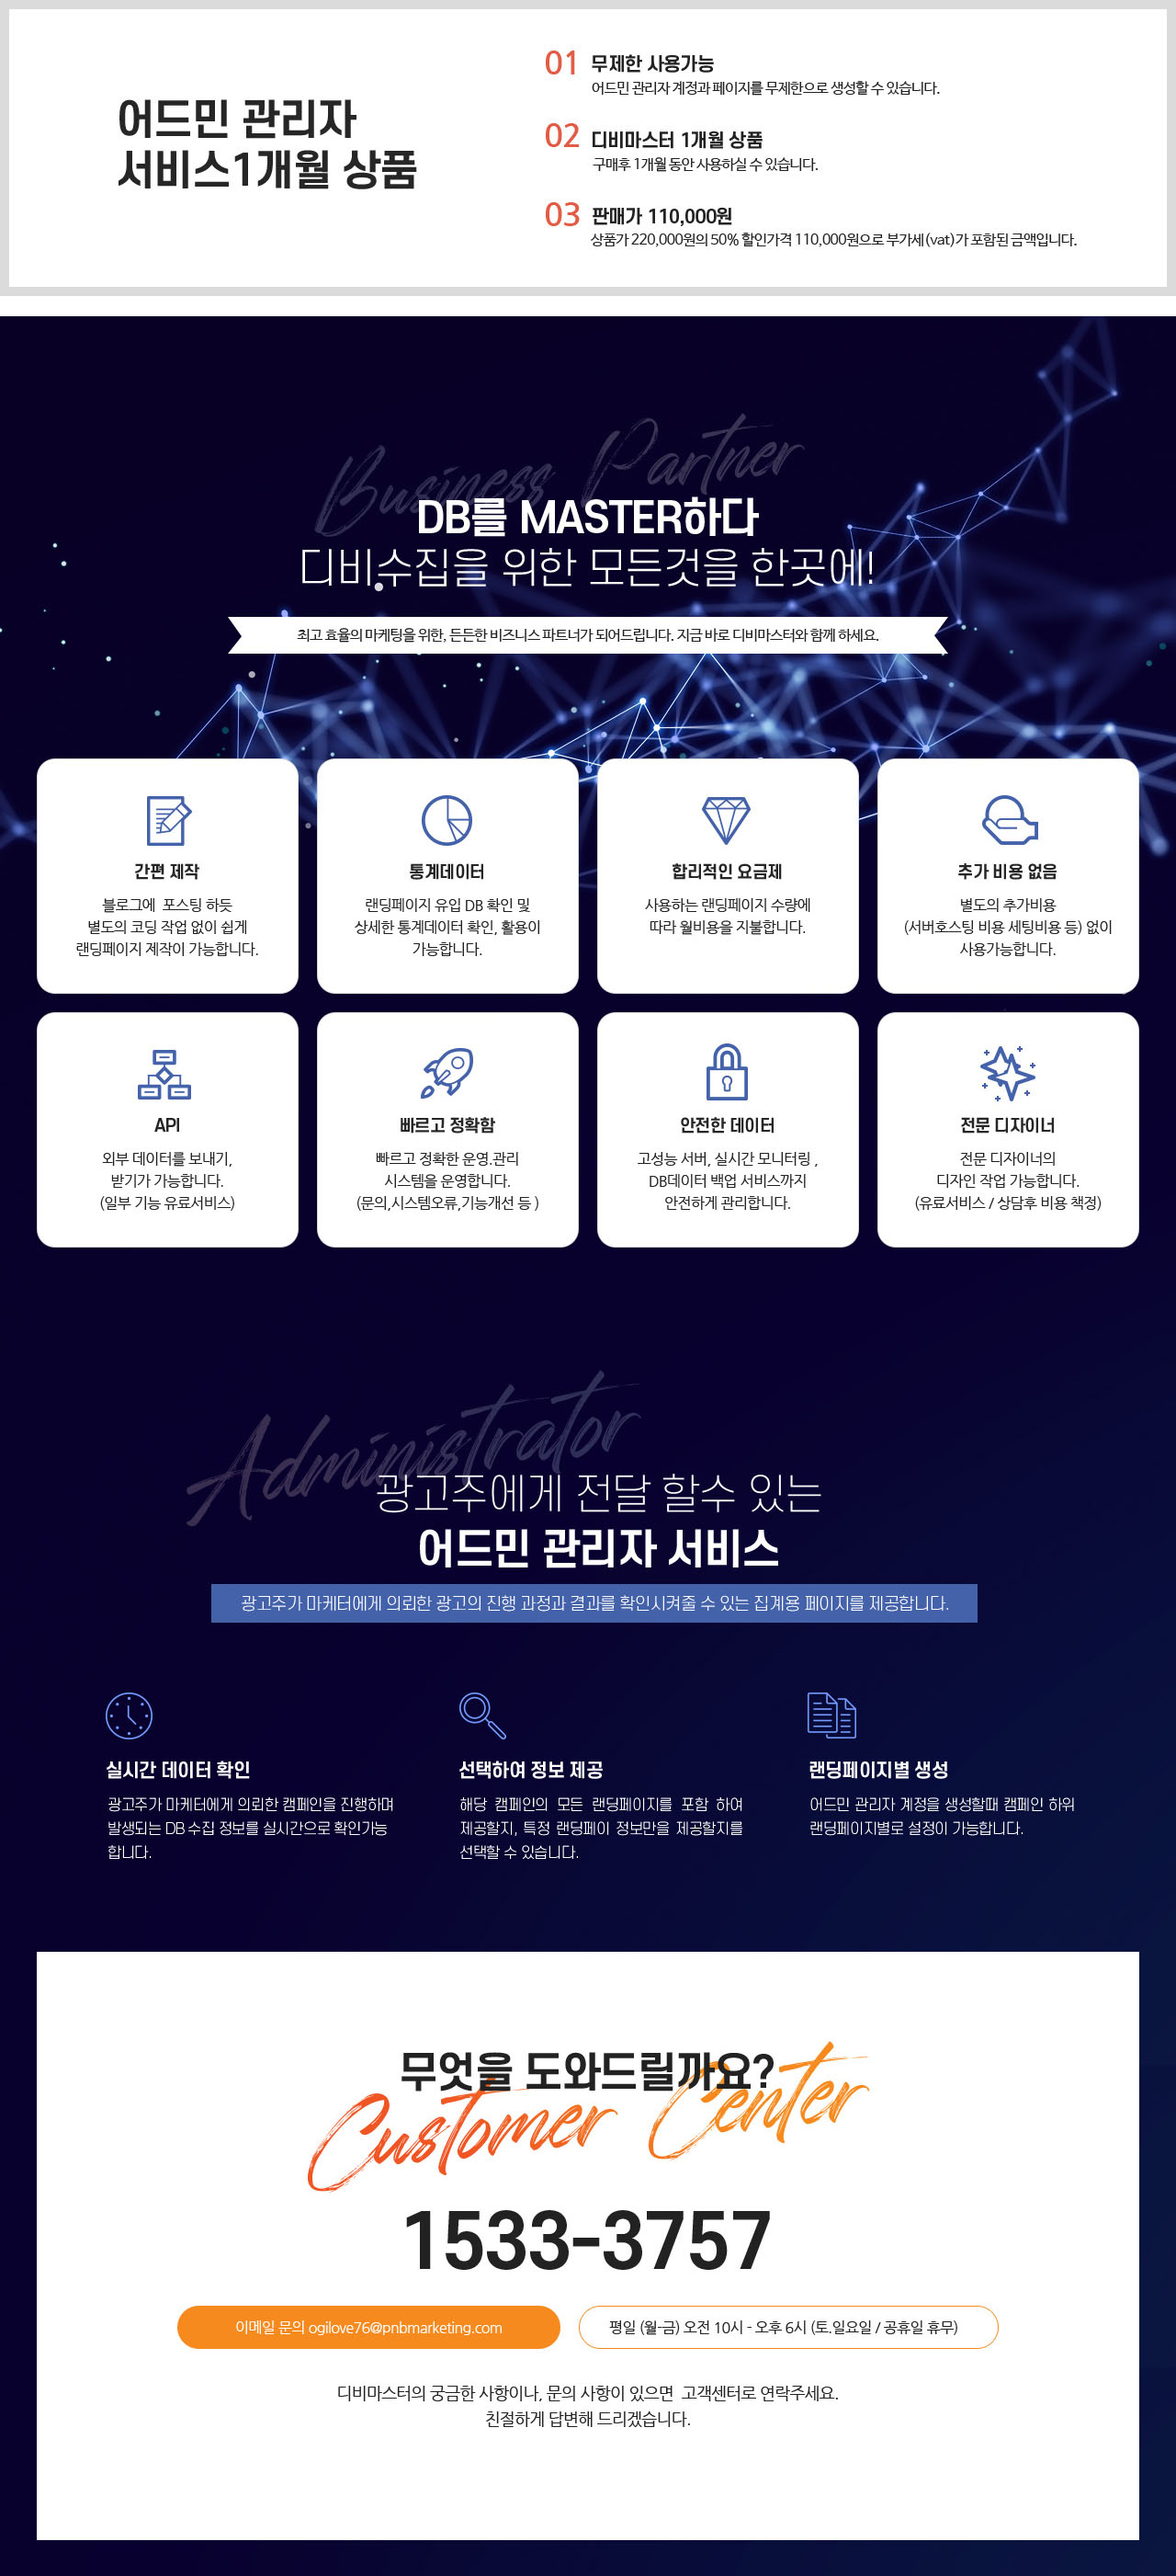
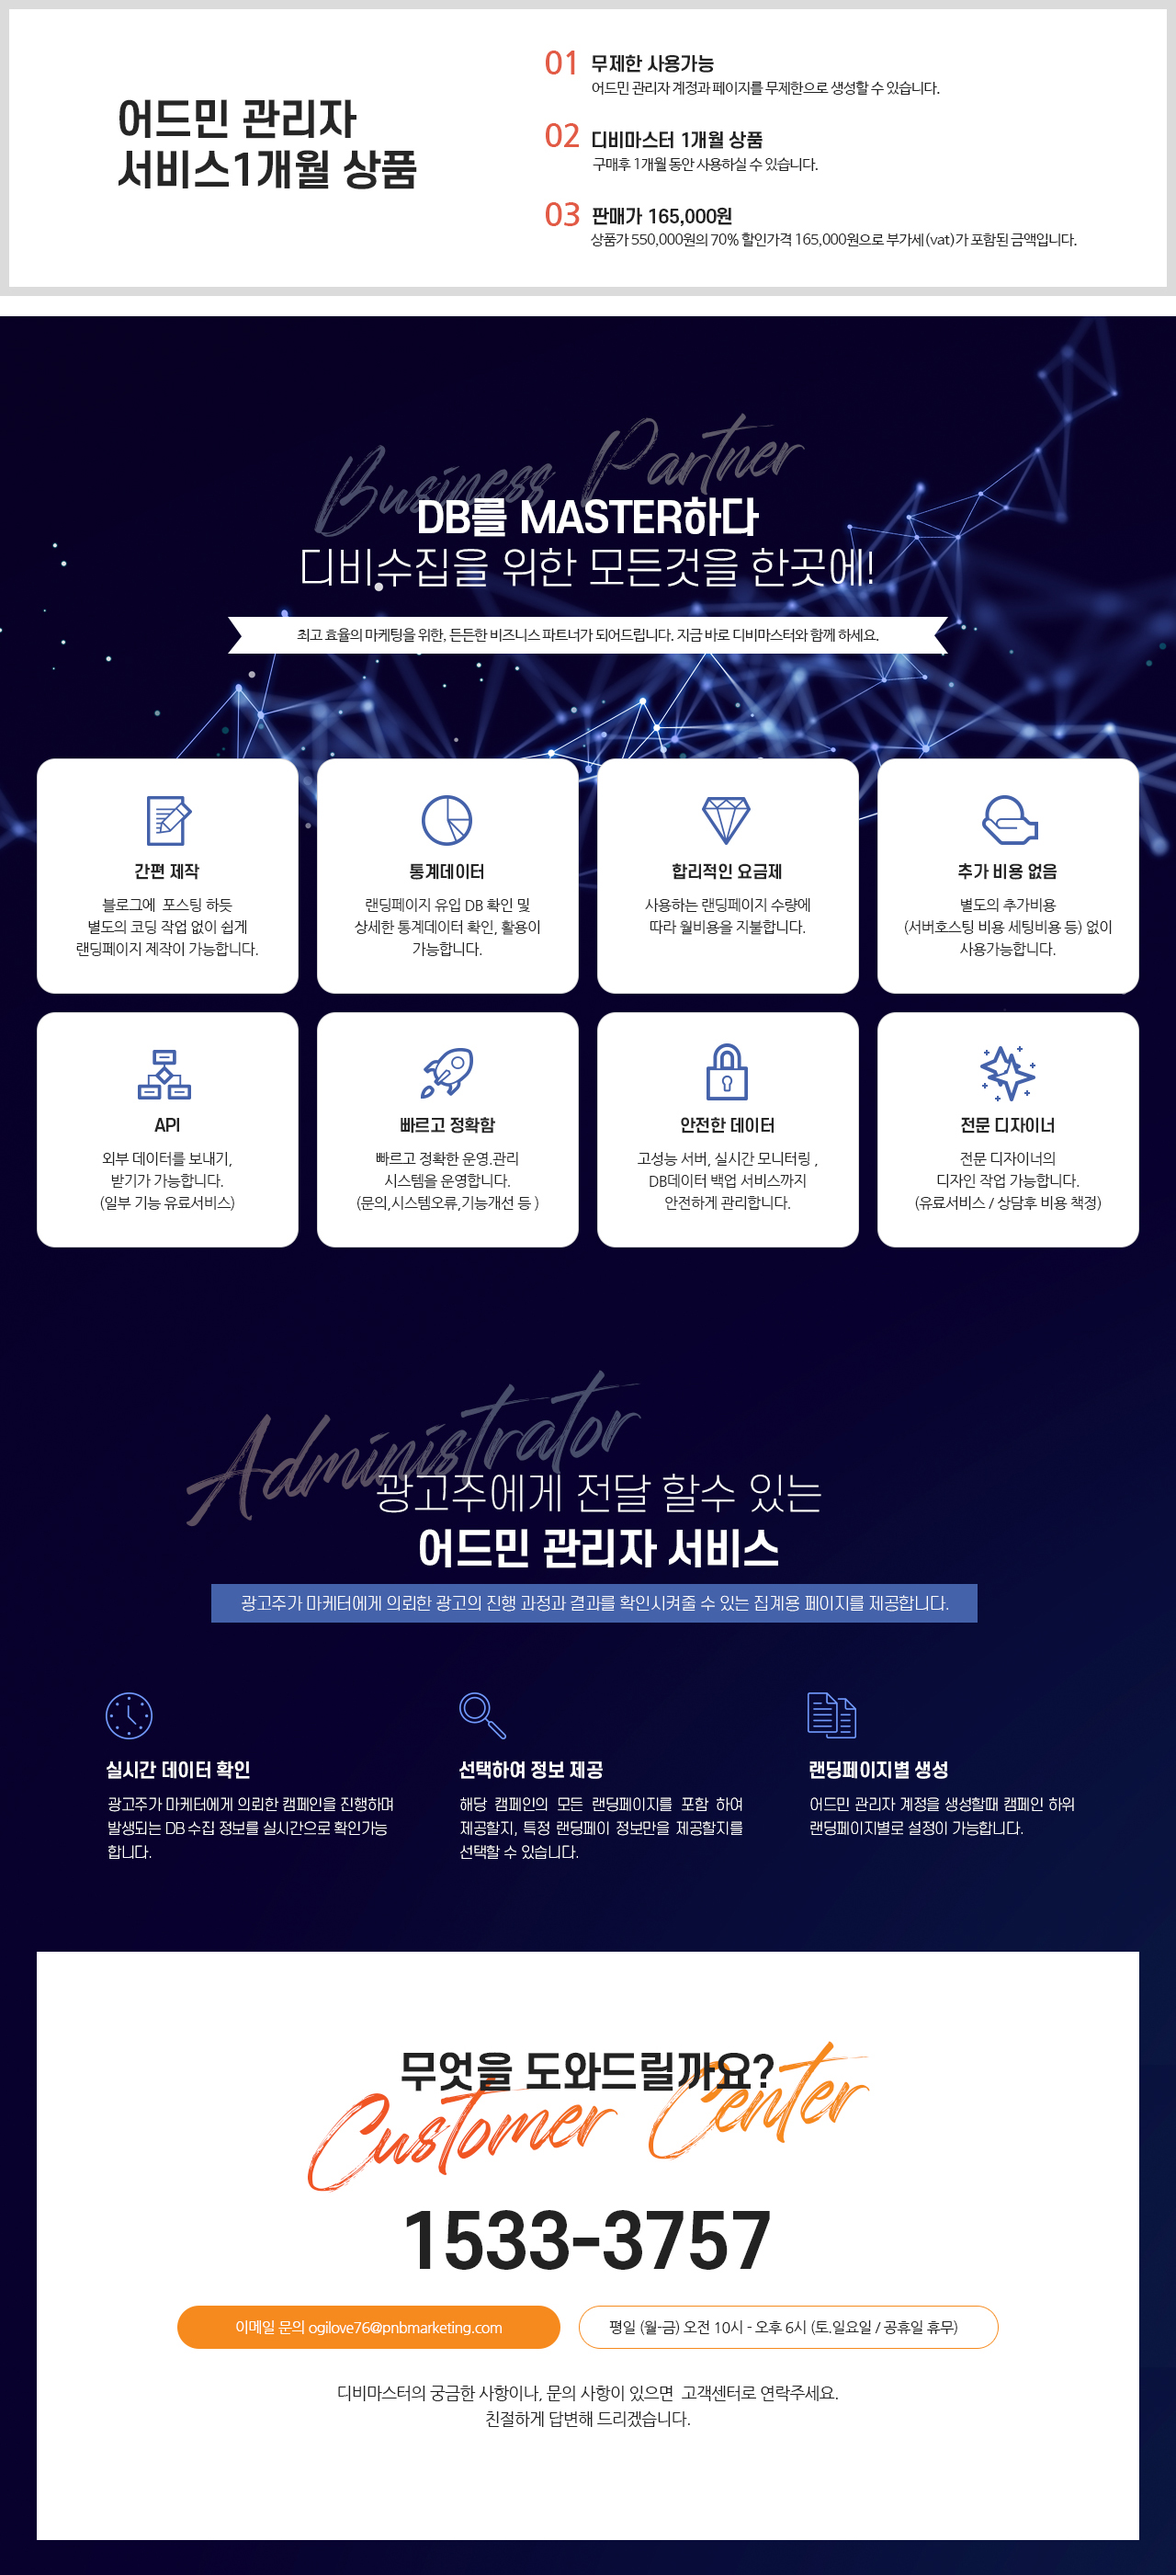
220413_v01

diff --git a/src/views/agency/MENU_08901.vue b/src/views/agency/MENU_08901.vue
@@ -85,10 +85,23 @@
 								{{topAdress}}
 							</div>	
 							<input type="text" class="adressBox" placeholder="상세주소">
+							
+							</td>
+						</tr>
+						<tr>
+							<th>
+								사업자등록증
+							</th>
+							<td colspan="3">
+								<input type="text" class="upload_name" placeholder="사업자등록증을 업로드해주세요." disabled>
+								<input type="file" accept="image/*" :id="this.indexNum" class="upload_hidden" ref="upImage01" @change="UploadImg()">
+								<label :for="this.indexNum">이미지 찾기 <i class="icon-plus1"></i></label>
+								
 							</td>
 						</tr>
 
 						-->
+
 					</tbody>
 					<tfoot>
 						<tr>
@@ -143,13 +156,16 @@
 			},
 
 			Modify() {
-
 				if(this.clntNm == null || this.clntNm == '') {
 					alert('이름/회사명을 입력해주세요.');
 					this.$refs.clntNm.focus();
 					return;
 				}
-				
+				if (this.clntPw.length > 13 || this.clntPw.length < 8) {
+          alert('비밀번호는  8자 ~ 13자 이내 입력바랍니다. (영문 , 숫자 ,특수문자 조합 사용)');
+          this.$refs.clntPw.focus();
+          return;
+        }
 				if(this.clntPw != this.clntPwConfirm) {
 					alert('비밀번화 확인을 재 입력해주세요.');
 					this.$refs.clntPw.focus();
@@ -177,14 +193,11 @@
 
 				axios.post("http://api.adinfo.co.kr:30000/modifymember", frm)
         .then(response => {
-
 					alert(response.data.message)
-          
         })
         .catch(error => {
           console.log(error);
         })
-
 
 			},
 
@@ -217,6 +230,17 @@
       }
 
 		},
+		watch: {
+      //******************************************************************************
+      // 입력 값에 정규표현식 문자 및 "," 표시
+      //******************************************************************************
+      clntPw : function() { 
+        return this.clntPw = this.clntPw.replace(/\s/g,'').replace(/[ㄱ-ㅎ|ㅏ-ㅣ|가-힣]/g,'');
+      },
+      clntPwConfirm : function() {
+        return this.clntPwConfirm = this.clntPwConfirm.replace(/\s/g,'').replace(/[ㄱ-ㅎ|ㅏ-ㅣ|가-힣]/g,'');
+      },
+    }, 
 		created() {
 			this.$store.state.headerTopTitle = "DBMASTER";
 			this.$store.state.headerMidTitle = "내 정보";
@@ -252,7 +276,7 @@
 		width: 70%;
 	}
 	#menu08901 .myData td .adressBox{
-		width: 40%; 
+		width: 41.5%; 
 		height: 100%;
 	}
 	#menu08901 .myData td div.adressBox{
@@ -262,6 +286,39 @@
 		border: 1px solid #e5e5e5;
 		padding: 5px;
 	}
+	#menu08901 .myData .upload_name {
+    width: 362px;
+    height: 30px;
+    margin-right: 10px;
+    padding-left: 10px;
+  }
+  #menu08901 .myData input[type="file"] {
+    display: none;
+  }
+  
+  #menu08901 .myData input[type="file"] + label {
+    display: inline-block;
+    width: 110px;
+    height: 100%;
+    border-radius: 10px;
+    background-color: #f0f0f0;
+    color: #000;
+    padding: 8px 20px;
+    font-weight: 700;
+    letter-spacing: -0.3px;
+    cursor: pointer;
+    border: 1px solid #e5e5e5;
+    position: relative;
+  }
+
+  #menu08901 .myData input[type="file"] + label > i {
+    position: absolute;
+    font-size: 18px;
+    color: #e25b45;
+    font-weight: 700;
+    right: 10px;
+    top: 7px;
+  }
 	#menu08901 .myData .business{
 		width: 14.5%;
 	}

diff --git a/src/views/agency/MENU_08999.vue b/src/views/agency/MENU_08999.vue
@@ -50,7 +50,7 @@
 							<input type="radio" v-model="subPlan" id="adminM" value="adminM">
 							<label for="adminM">
 								<span class="top">어드민 관리자 서비스</span>
-								<span class="middle">110,000 <span>원/월(VAT 포함)</span></span>
+								<span class="middle">165,000 <span>원/월(VAT 포함)</span></span>
 								<span class="bottom"><span>관리 할 수 있는 어드민 페이지</span></span>
 							</label>
 						</div>
@@ -106,7 +106,7 @@
 								</span>
 								<span>
 									<input type="checkbox" id="extraPost" value="01" v-model="extraService"><label for="extraPost">API 프리미엄 <span class="small">( + 55,000원 )</span></label>
-									<input type="checkbox" id="extraAdmin" value="02" v-model="extraService"><label for="extraAdmin">어드민 관리자 <span class="small">( + 110,000원 )</span></label>
+									<input type="checkbox" id="extraAdmin" value="02" v-model="extraService"><label for="extraAdmin">어드민 관리자 <span class="small">( + 165,000원 )</span></label>
 								</span>
 							</p>
 							<p>
@@ -186,7 +186,7 @@
 								</span>
 								<span v-if="subPlan == 'post'" class="line">110,000원</span>
 								<!-- <span v-if="subPlan == 'sms'">DB접수 알림 건당 20원 발생</span> -->
-								<span v-if="subPlan == 'adminM'" class="line">220,000원</span>
+								<span v-if="subPlan == 'adminM'" class="line">550,000원</span>
 							</p>
 							<p>
 								<span class="planTitle">
@@ -194,7 +194,7 @@
 								</span>
 								<span v-if="subPlan == 'post'" class="org">55,000원 <span>(50% 할인)</span></span>
 								<!-- <span v-if="subPlan == 'sms'" class="org">2,200원 ~</span> -->
-								<span v-if="subPlan == 'adminM'" class="org">110,000원 <span>(50% 할인)</span></span>
+								<span v-if="subPlan == 'adminM'" class="org">165,000원 <span>(70% 할인)</span></span>
 							</p>
 							<p>
 								<span class="planTitle">
@@ -644,7 +644,7 @@
 					if(this.extraService[i] == '01') {
 						extraPrice = extraPrice + 55000
 					} else if(this.extraService[i] == '02') {
-						extraPrice = extraPrice + 110000
+						extraPrice = extraPrice + 165000
 					}
 				}
 
@@ -661,7 +661,7 @@
 				// 	price = Number(this.smsPlan)
 				// }
 				else if(this.subPlan == 'adminM'){
-					price = 110000
+					price = 165000
 					// this.smsPlan = 0;
 				}
 

diff --git a/src/views/agency/MENU_08302.vue b/src/views/agency/MENU_08302.vue
@@ -114,7 +114,7 @@
                   {{inObj.names}}
                 </div>
                 <div class="right">
-                  <input type='text'   name='value2' >
+                  <input type='text'   name='value2' :placeholder="inObj.lab">
                 </div>
               </div>
               <!--연락처 박스 -->
@@ -186,7 +186,7 @@
                   {{inObj.names}}
                 </div>
                 <div class="right">
-                  <textarea></textarea> 
+                  <textarea :placeholder="inObj.lab"></textarea> 
                 </div>
               </div>
             </div>
@@ -218,7 +218,7 @@
                   {{inObj.names}}
                 </div>
                 <div class="right">
-                  <input type='text'   name='value2' >
+                  <input type='text'   name='value2'  :placeholder="inObj.lab">
                 </div>
               </div>
               <!-- 연락처 박스 -->
@@ -290,7 +290,7 @@
                   {{inObj.names}}
                 </div>
                 <div class="right">
-                  <textarea></textarea> 
+                  <textarea  :placeholder="inObj.lab"></textarea> 
                 </div>
               </div>
             </div>
@@ -319,7 +319,7 @@
               <!-- 텍스트 박스 -->
               <div v-if="inObj.values == 'textForm'" class="formInput">
                 <h2 class="formInputName" :style="{color:lendchoose.formDesc.textA}">{{inObj.names}}</h2>
-                <input type="text">
+                <input type="text"  :placeholder="inObj.lab">
               </div>
               <!-- 연락처 박스 -->
               <div v-if="inObj.values == 'telForm'" class="formInput">
@@ -373,7 +373,7 @@
               <!-- 메모장 -->
               <div v-if="inObj.values == 'textArea'" class="textArea">
                 <h2 class="formInputName" :style="{color:lendchoose.formDesc.textA}">{{inObj.names}}</h2>
-                <textarea></textarea> 
+                <textarea :placeholder="inObj.lab"></textarea> 
               </div>
             </div>
             <div class="agreeBox">

diff --git a/src/components/menu/DbMasterMenu.vue b/src/components/menu/DbMasterMenu.vue
@@ -114,12 +114,12 @@
             내정보
           </router-link>
         </li>
-        <li @click="DBMenuBar(999)" v-bind:class="{on : 999 == $store.state.menuSelect}">
+        <!-- <li @click="DBMenuBar(999)" v-bind:class="{on : 999 == $store.state.menuSelect}">
           <router-link to="MENU_08999">
             <i class="icon-store"></i>
             요금제
           </router-link>
-        </li>
+        </li> -->
       </ul>
       <div class="manual">
         <a href="files/디비마스터_매뉴얼_v3.pdf" download><i class="icon-download11"></i>매뉴얼 다운로드</a>

diff --git a/src/views/agency/MENU_08103.vue b/src/views/agency/MENU_08103.vue
@@ -142,6 +142,7 @@
                   <option value="03">체크박스  </option>
                   <option value="04">셀렉트박스</option>
                   <option value="05">메모박스  </option>
+                  <option value="06">입력박스</option>
                 </select>
               </td>
               <td v-else class="formType">
